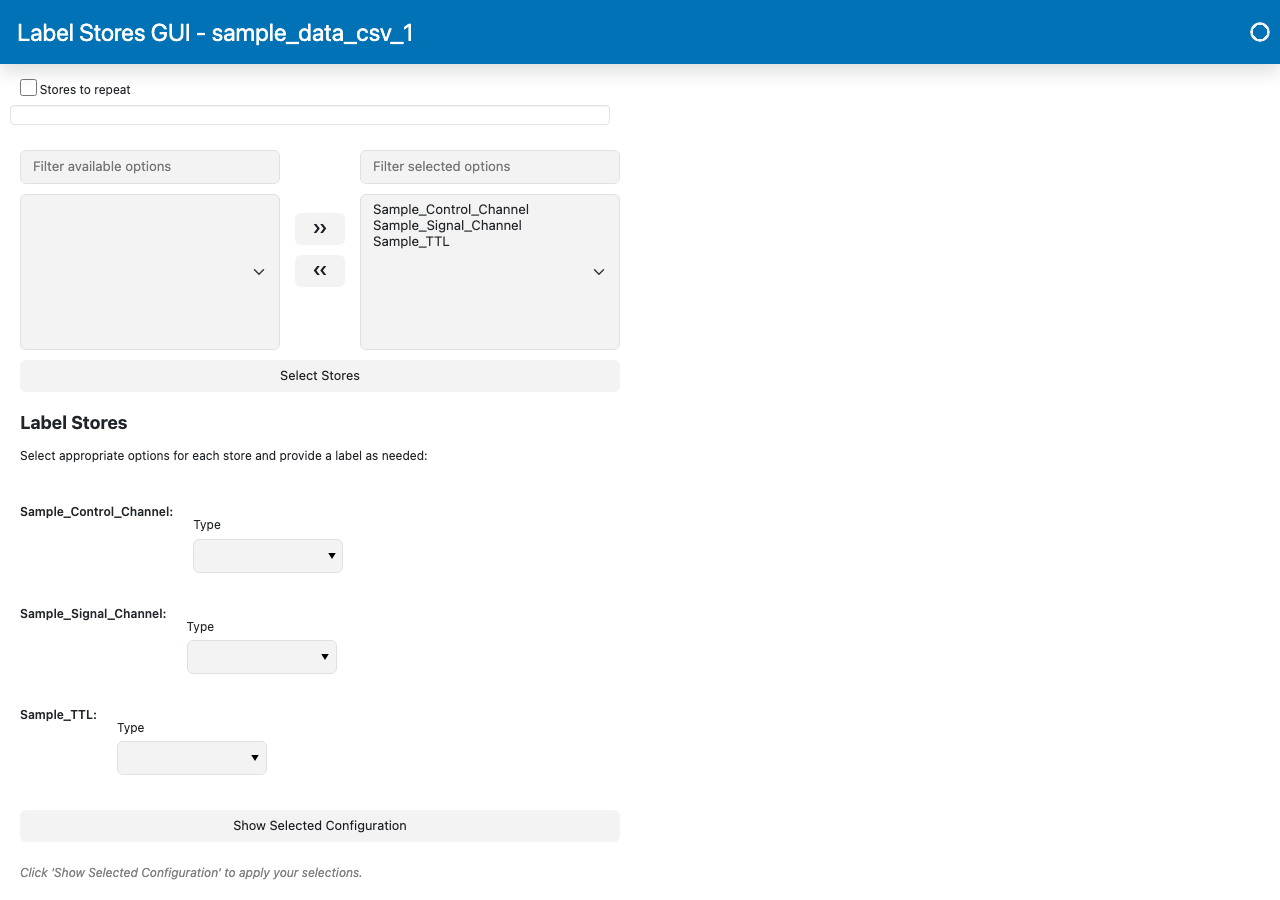
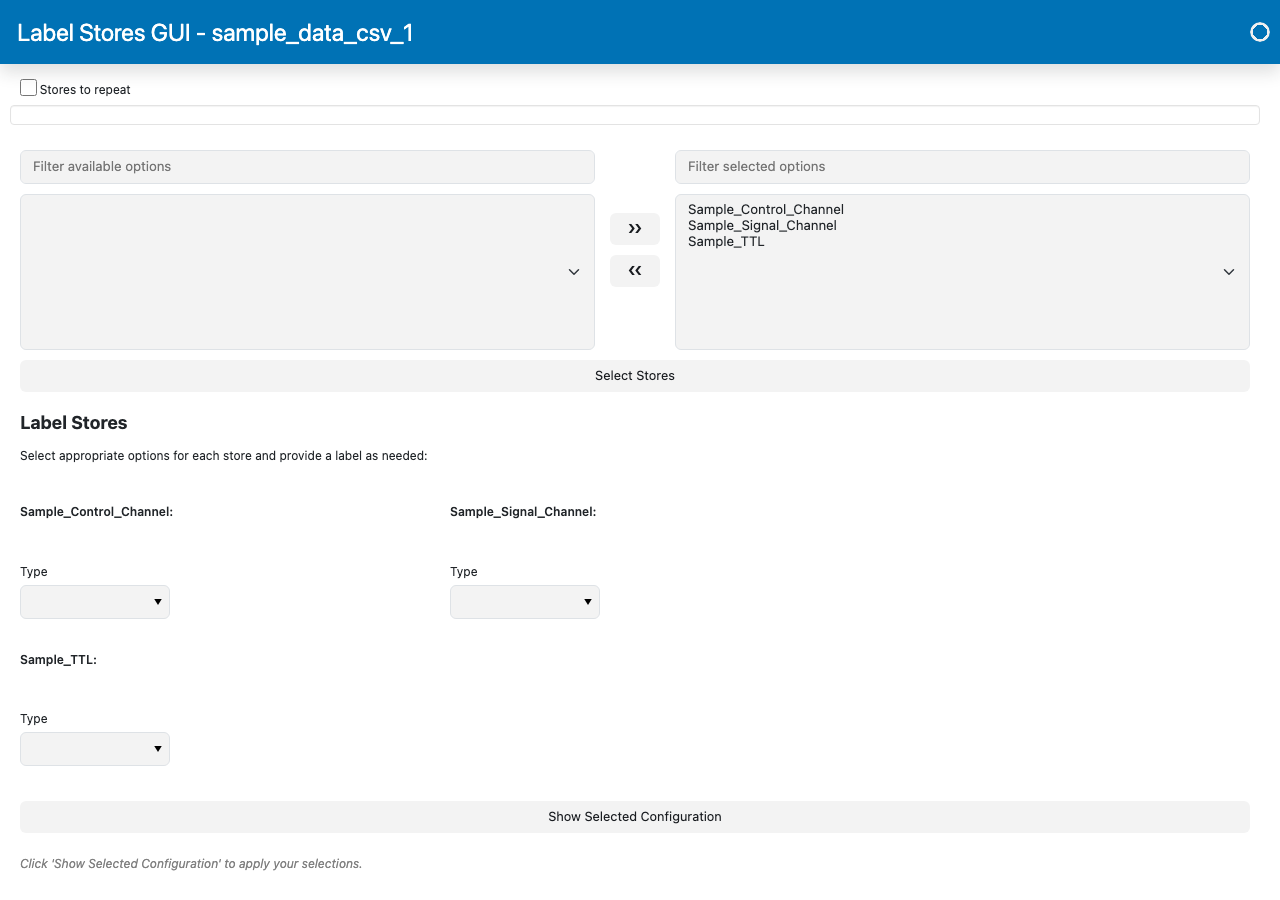
Retake the docs screenshots of the pages that now fill the window
Retakes the parameter card, Label Stores (plain, configured and with
covariates), the Visualization dashboard, the group PSTH plot, the tonic
results and the two NWB metadata shots. The covariate Label Stores crop
widens to the full viewport now that the store tiles span it.

Two calls in the screenshot script had fallen behind their APIs: the Label
Stores page now needs the input and output roots, and TonicResultsView
needs its label.

diff --git a/docs/take_screenshots.py b/docs/take_screenshots.py
@@ -401,7 +401,7 @@ def screenshot_covariate_label_stores(page: Page) -> None:
     page.wait_for_timeout(1500)
     page.screenshot(
         path=OUTPUT_DIR / "covariate_label_stores.png",
-        clip={"x": 0, "y": 0, "width": 660, "height": 1090},
+        clip={"x": 0, "y": 0, "width": 1280, "height": 1090},
     )
     print("Saved covariate_label_stores.png")
 
